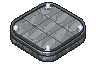
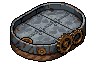
feat(web): PixelLab metal, dark and light habitats
Replace the trial-era recolours with tiles generated from their own
prompts (same template and seed as the other six habitats).

diff --git a/apps/web/art/prompts.md b/apps/web/art/prompts.md
@@ -35,10 +35,11 @@ Egg and hatchling lines: see the waitlist prompts file.
 | 16 px batch | `create_1_direction_object`, size 16, 54 item descriptions | 10 | crop stages, 16 px icons, cursor |
 | Island | `create_image_pixen` 480×272, seed 11 | 1 | `island.base` |
 | Habitats | `create_image_pixen` 96×64, seed 21, transparent | 7 | fire, water, earth, nature, electric, ice (plus one discarded fire take) |
+| Habitats (paid plan) | `create_image_pixen` 96×64, seed 21, transparent | 3 | metal, dark, light (replaced the trial-era recolours) |
 | Habitat test | `create_image_pixflux` img2img from the water tile | 1 | discarded (kept the water colours) |
 | Waitlist hero | `create_image_pixen` 320×180, seed 7 | 1 | waitlist `hero.base` |
 
-That is the whole 40-generation trial. Everything below marked "code" was made locally from these PixelLab images.
+The first seven runs are the whole 40-generation trial. Everything below marked "code" was made locally from these PixelLab images.
 
 ## Assets
 
@@ -47,7 +48,7 @@ That is the whole 40-generation trial. Everything below marked "code" was made l
 | `egg.<element>` | `egg-<element>.png` | 32×32 | 6 | 8 | `dragon egg, <egg line>`; code: rows sheared about the bottom edge, top row offset 0, 2, 2, 0, −2, −2 px |
 | `hatchling.<element>` | `hatchling-<element>.png` | 32×32 | 4 | 4 | `baby dragon hatchling sitting, <hatchling line>`; code: upper 45% moved down 0, 0, 1, 1 px (breathing) |
 | `dragon.<species>` | `dragon-<species>.png` | 48×48 | 4 | 4 | species line above; same breathing code |
-| `habitat.<element>` | `habitat-<element>.png` | 96×64 | 1 | 0 | "flat oval ground tile seen from above at a three-quarter angle, open flat top of <surface>, thin <rim> rim, short earth side, nothing standing on it, simple, …". Surfaces: fire black volcanic rock with glowing orange lava cracks; water clear blue pond with two lily pads; earth packed brown earth with small boulders; nature lush grass with tiny ferns and flowers; electric dark slate with glowing yellow crystal shards; ice white snow with pale blue ice crystals. Code: metal and dark are hue/saturation recolours of the electric tile, light is a warm recolour of the ice tile. |
+| `habitat.<element>` | `habitat-<element>.png` | 96×64 | 1 | 0 | "flat oval ground tile seen from above at a three-quarter angle, open flat top of <surface>, thin <rim> rim, short earth side, nothing standing on it, simple, …". Surfaces: fire black volcanic rock with glowing orange lava cracks; water clear blue pond with two lily pads; earth packed brown earth with small boulders; nature lush grass with tiny ferns and flowers; electric dark slate with glowing yellow crystal shards; ice white snow with pale blue ice crystals; metal riveted steel plates with brass gears; dark purple shadow stone with glowing violet crystals; light polished white marble with glowing golden orbs and gold trim. |
 | `building.nest` | `nest.png` | 32×32 | 1 | 0 | dragon nest of woven twigs and straw, bowl shaped, empty |
 | `building.hatchery` | `hatchery.png` | 48×48 | 1 | 0 | wooden hatchery hut with straw roof, round door and a warm lantern |
 | `building.farmPlot` | `farm-plot.png` | 32×24 | 1 | 0 | small tilled farm plot of dark soil with wooden edge, empty (cropped from 32×32) |

diff --git a/docs/superpowers/plans/2026-10-28-web-client.md b/docs/superpowers/plans/2026-10-28-web-client.md
@@ -208,7 +208,7 @@ Must run in a session where the `pixellab` MCP tools are loaded (the server is c
 - [x] **Step 4:** `pnpm --filter @wyrmhaven/web test` → PASS
 - [x] **Step 5:** Commit `feat(web): PixelLab art v1`
 
-> Done 2026-10-29. Layout changed for the real sprite sizes: habitats fill a 4×3 grid of 96×64 tiles from the meadow centre outward, are drawn back row first, and dragons stand on the tile face. Crop sheets are growth stages chosen by frame. The PixelLab trial (40 generations) covered every slot; idle animations, the water layer, three habitat recolours (metal, dark, light) and the UI frames were made in code from the PixelLab images. Alignment was checked with an offline composite of the layout; the battle scene was not viewed in a running client. See `apps/web/art/prompts.md`.
+> Done 2026-10-29. Layout changed for the real sprite sizes: habitats fill a 4×3 grid of 96×64 tiles from the meadow centre outward, are drawn back row first, and dragons stand on the tile face. Crop sheets are growth stages chosen by frame. The PixelLab trial (40 generations) covered every slot; idle animations, the water layer and the UI frames were made in code (the metal, dark and light habitats started as recolours and were regenerated with PixelLab on a paid plan) from the PixelLab images. Alignment was checked with an offline composite of the layout; the battle scene was not viewed in a running client. See `apps/web/art/prompts.md`.
 
 ### Task 9: Shell, responsiveness, error states, README
 
